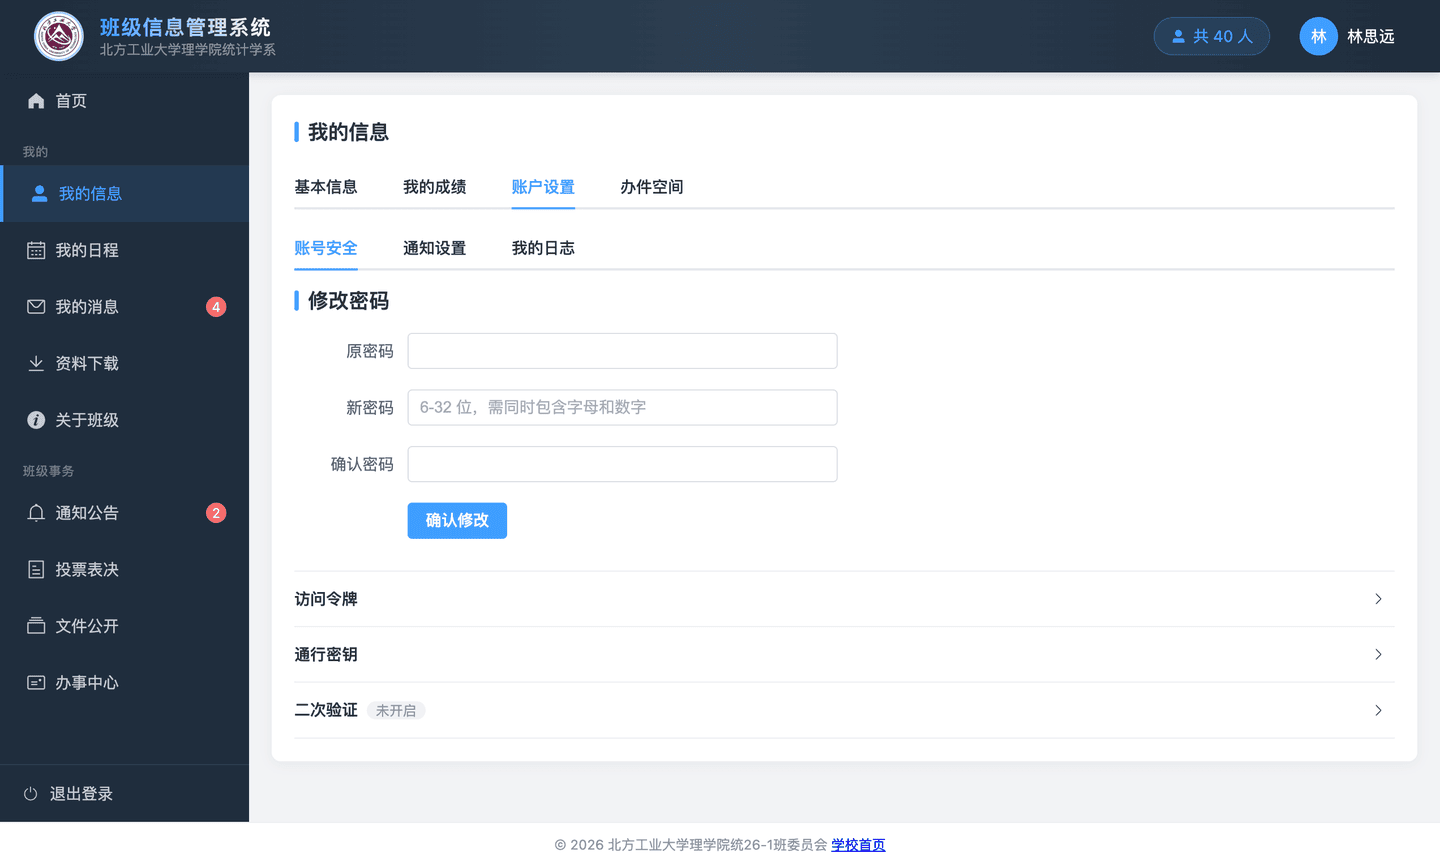
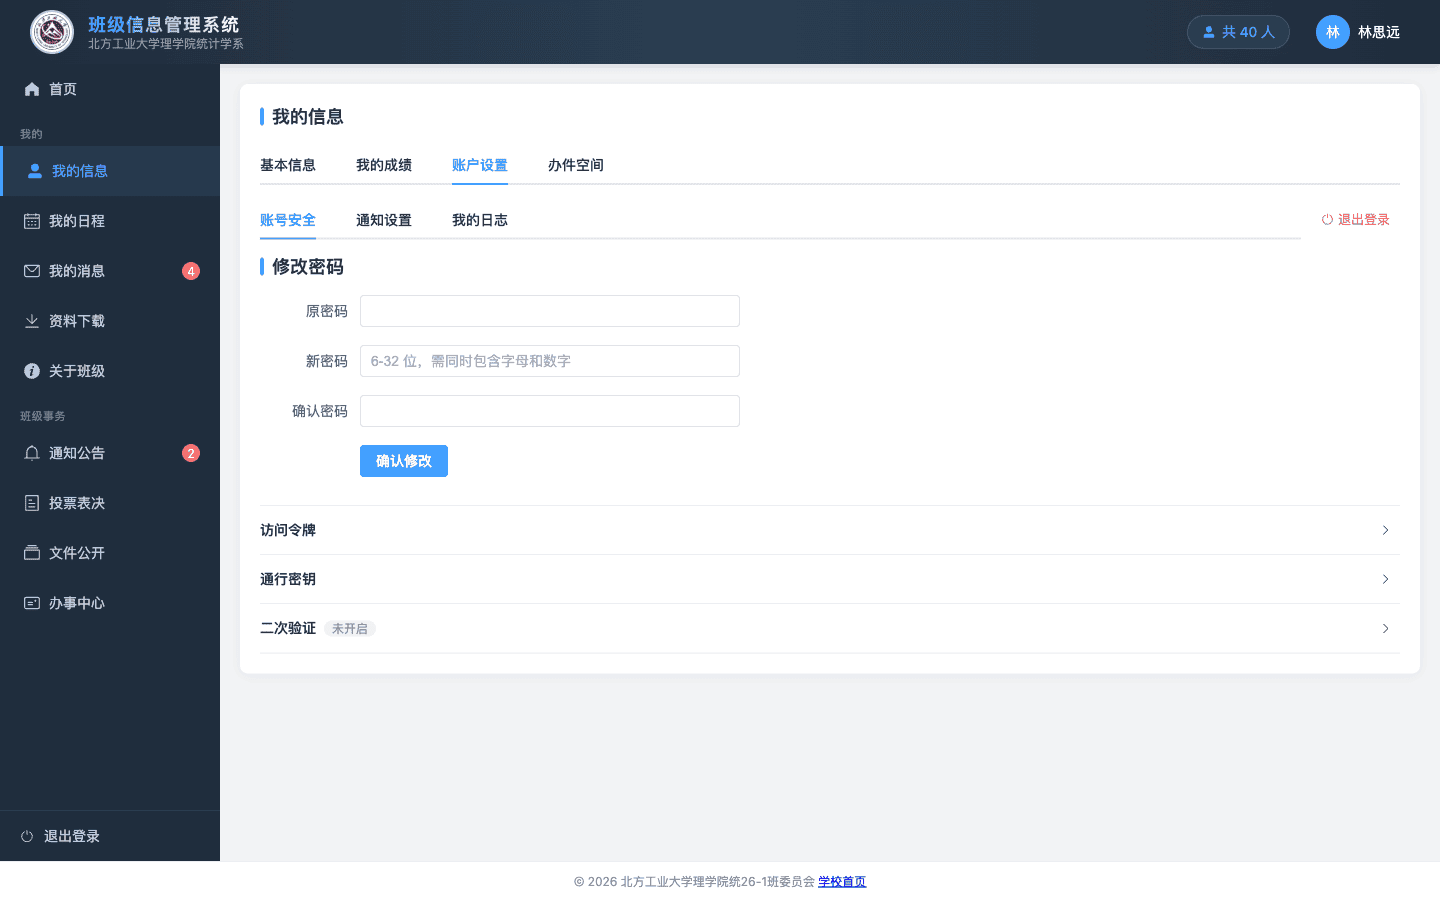
chore：版本号升到 1.16.1，文档配图换成当前界面
- app_version 升到 1.16.1，接口文档按新版本重新生成（241 个接口）
- docs/images 下 29 张配图按当前代码重拍：列表搜索、日程表头点击、
  手机端紧凑排版，以及头像优先显示等 1.16 的变化
- 配图沿用旧的量化口径压缩，体积与原来相当

diff --git a/backend/app/config.py b/backend/app/config.py
@@ -16,7 +16,7 @@ class Settings(BaseSettings):
     # 应用信息
     app_name: str = "班级信息管理系统"
     # 版本号。页面上的「关于班级 → 系统版本」、/api/health、接口文档都取这一份
-    app_version: str = "1.16.0"
+    app_version: str = "1.16.1"
     # 站点名称。和前端 window.__SITE__.name 是同**一个**环境变量 SITE_NAME，
     # 后端只在 RSS 频道名里用它（「通知公告 - 示例班信息管理系统」），
     # 目的就是让阅读器里显示的源名和网页标题对得上。
